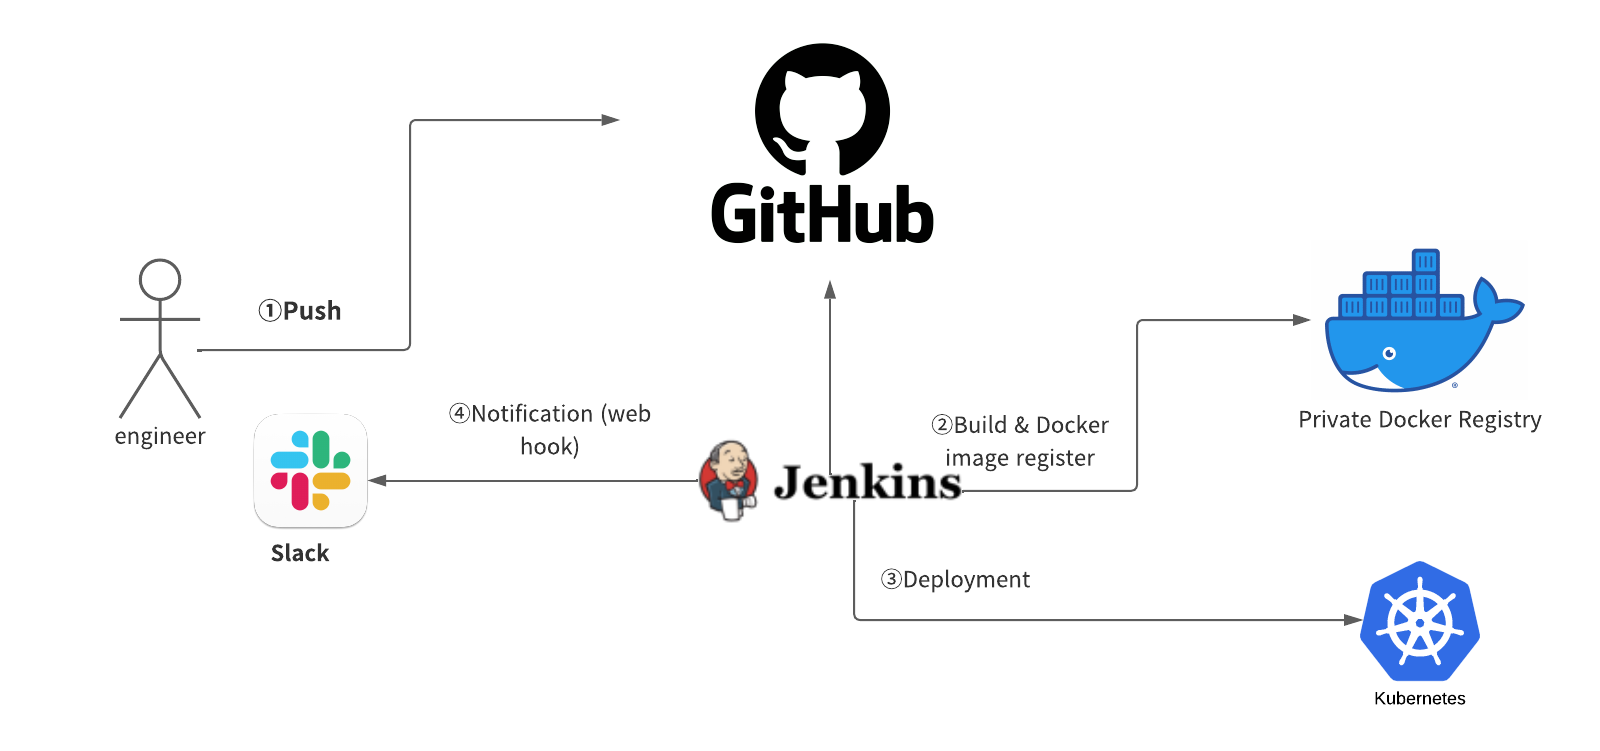
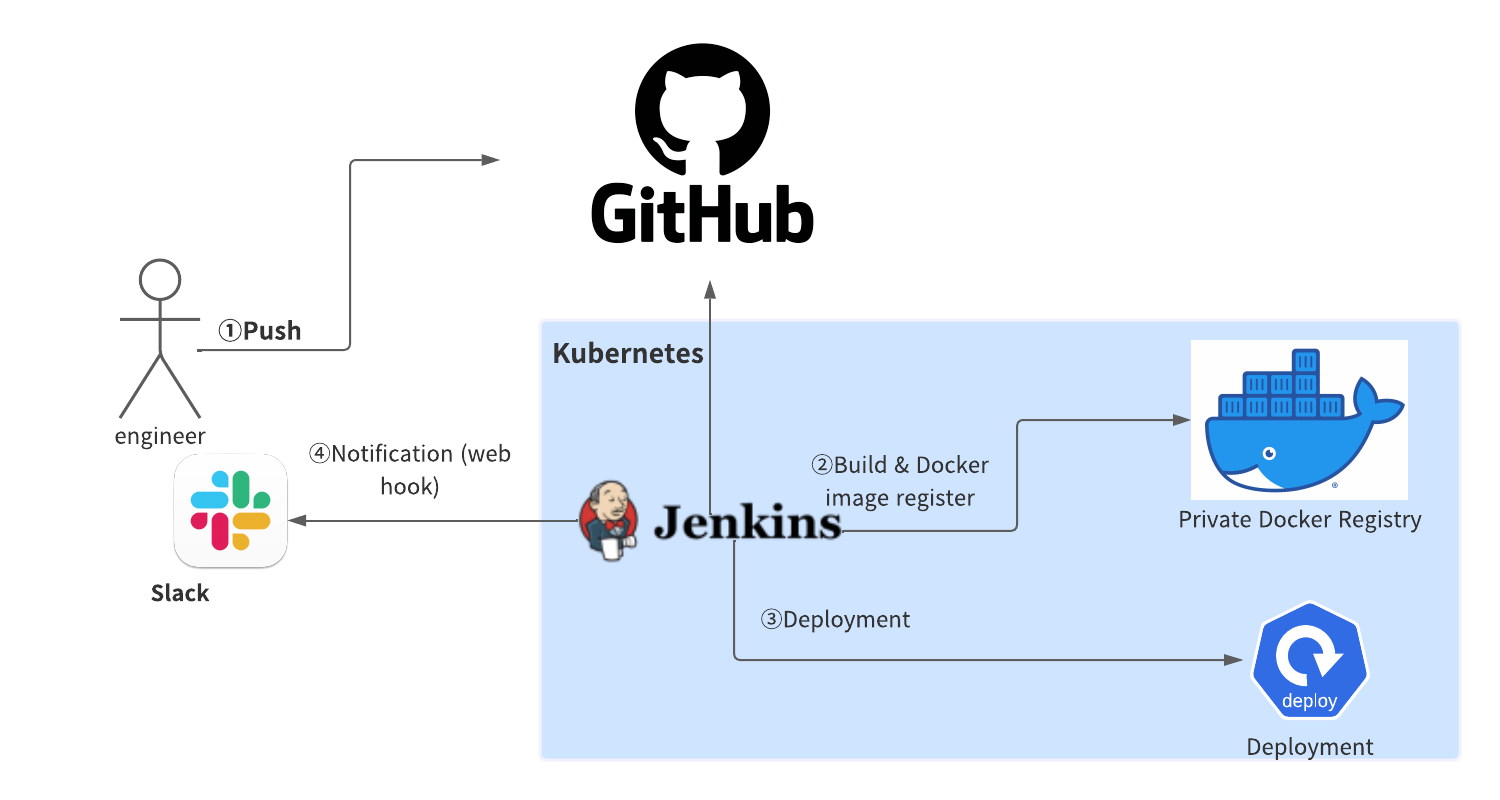
20221130 Fixed infra details page
・Replace CI/CD flow image

diff --git a/src/main/resources/templates/portfolio-infra.html b/src/main/resources/templates/portfolio-infra.html
@@ -103,11 +103,12 @@
             <p>
               <img src="./static/img/CI_CD.png" alt="">
             </p>
-            ①Push:エンジニアがGit hubにプッシュします。<br>
-            ②Build & Docker image register:Git hubから資産をプルし、ビルドを開始します。<br>
-            ビルドされたjarファイルをもとにDocker imageを作成します。<br>
-            ③Deployment:<br>
-            ④Notification(web hook):<br><br>
+            <b>①Push:</b>エンジニアがGit hubにプッシュします。<br>
+            <b>②Build & Docker image register:</b>Git hubから資産をプルし、ビルドを開始します。<br>
+            &nbsp;&nbsp;&nbsp;ビルドされたjarをもとにDocker imageを作成しprivate docker registryに登録します。<br>
+            <b>③Deployment:</b>モジュールのデプロイメントを定義したyamlをもとにデプロイを開始し、Kubernetes podを作成する。<br>
+            <b>④Notification(web hook):</b>デプロイが完了したらJenkinsからSlackに完了の通知をします。<br>
+            &nbsp;&nbsp;&nbsp;このときはSlackのWeb hookを利用します。<br><br>
 
             <b>Jenkinsビルドが開始したときとビルドが完了したときにSlackに通知します。</b>
             <p>
